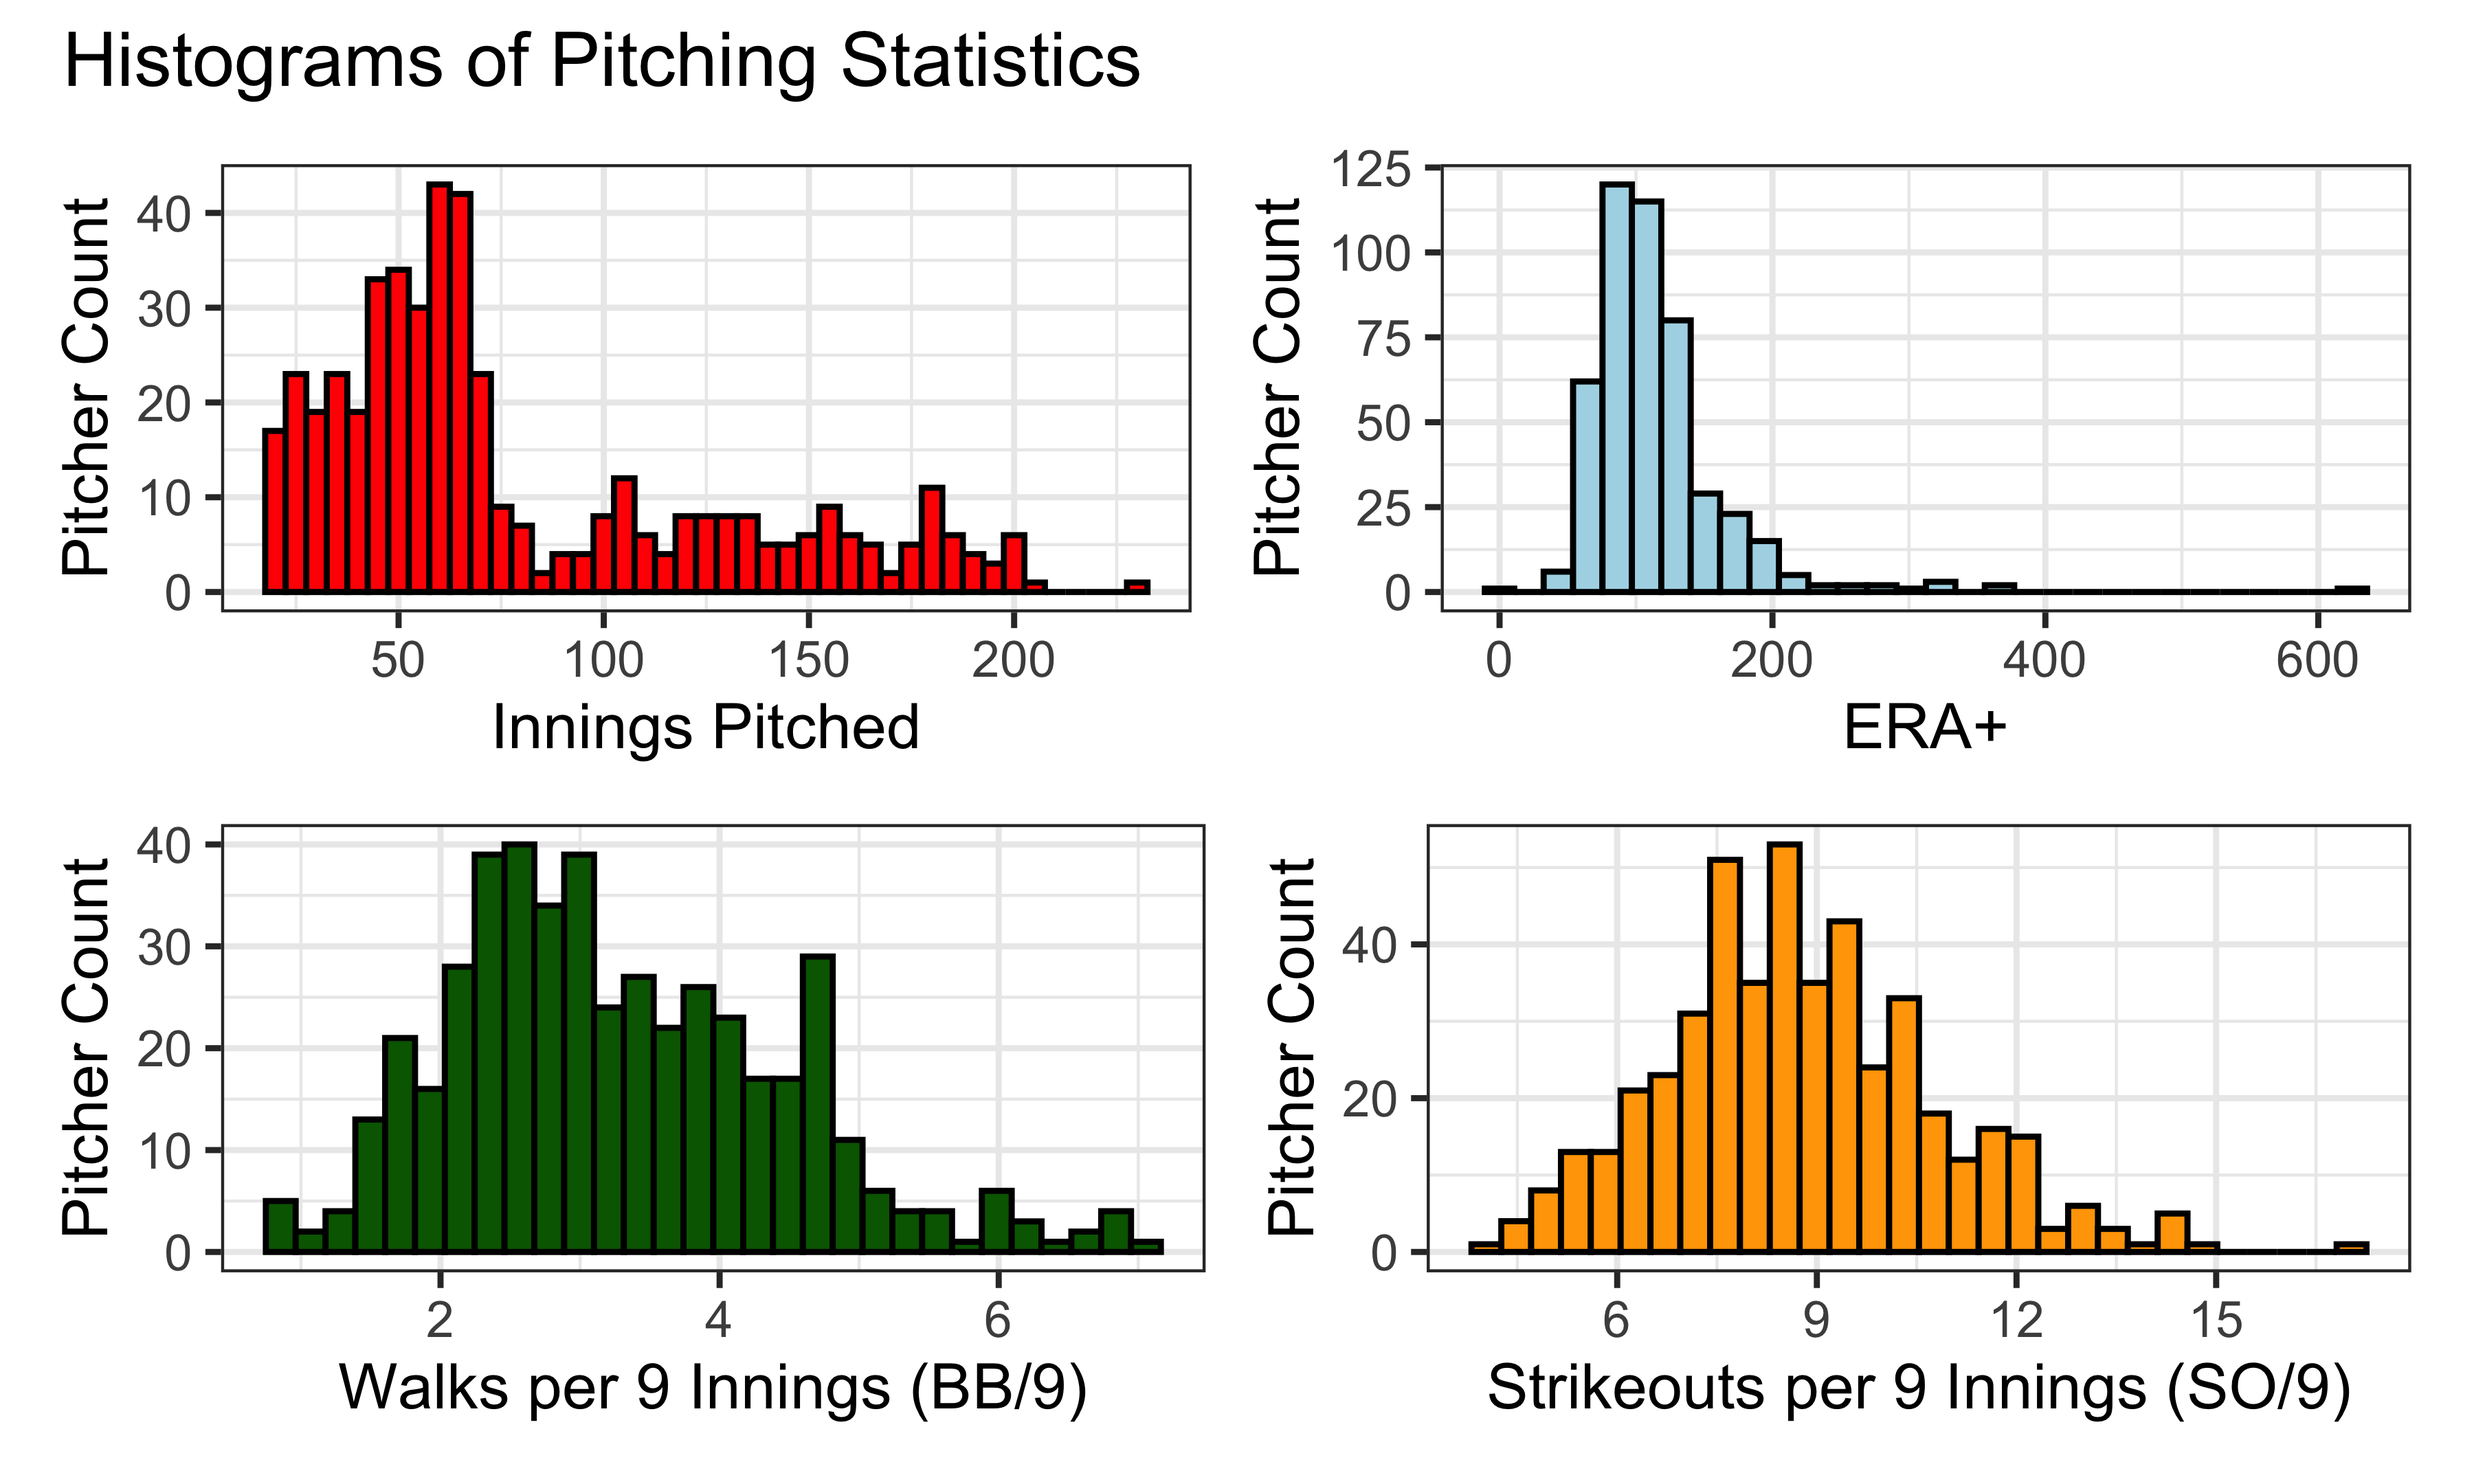
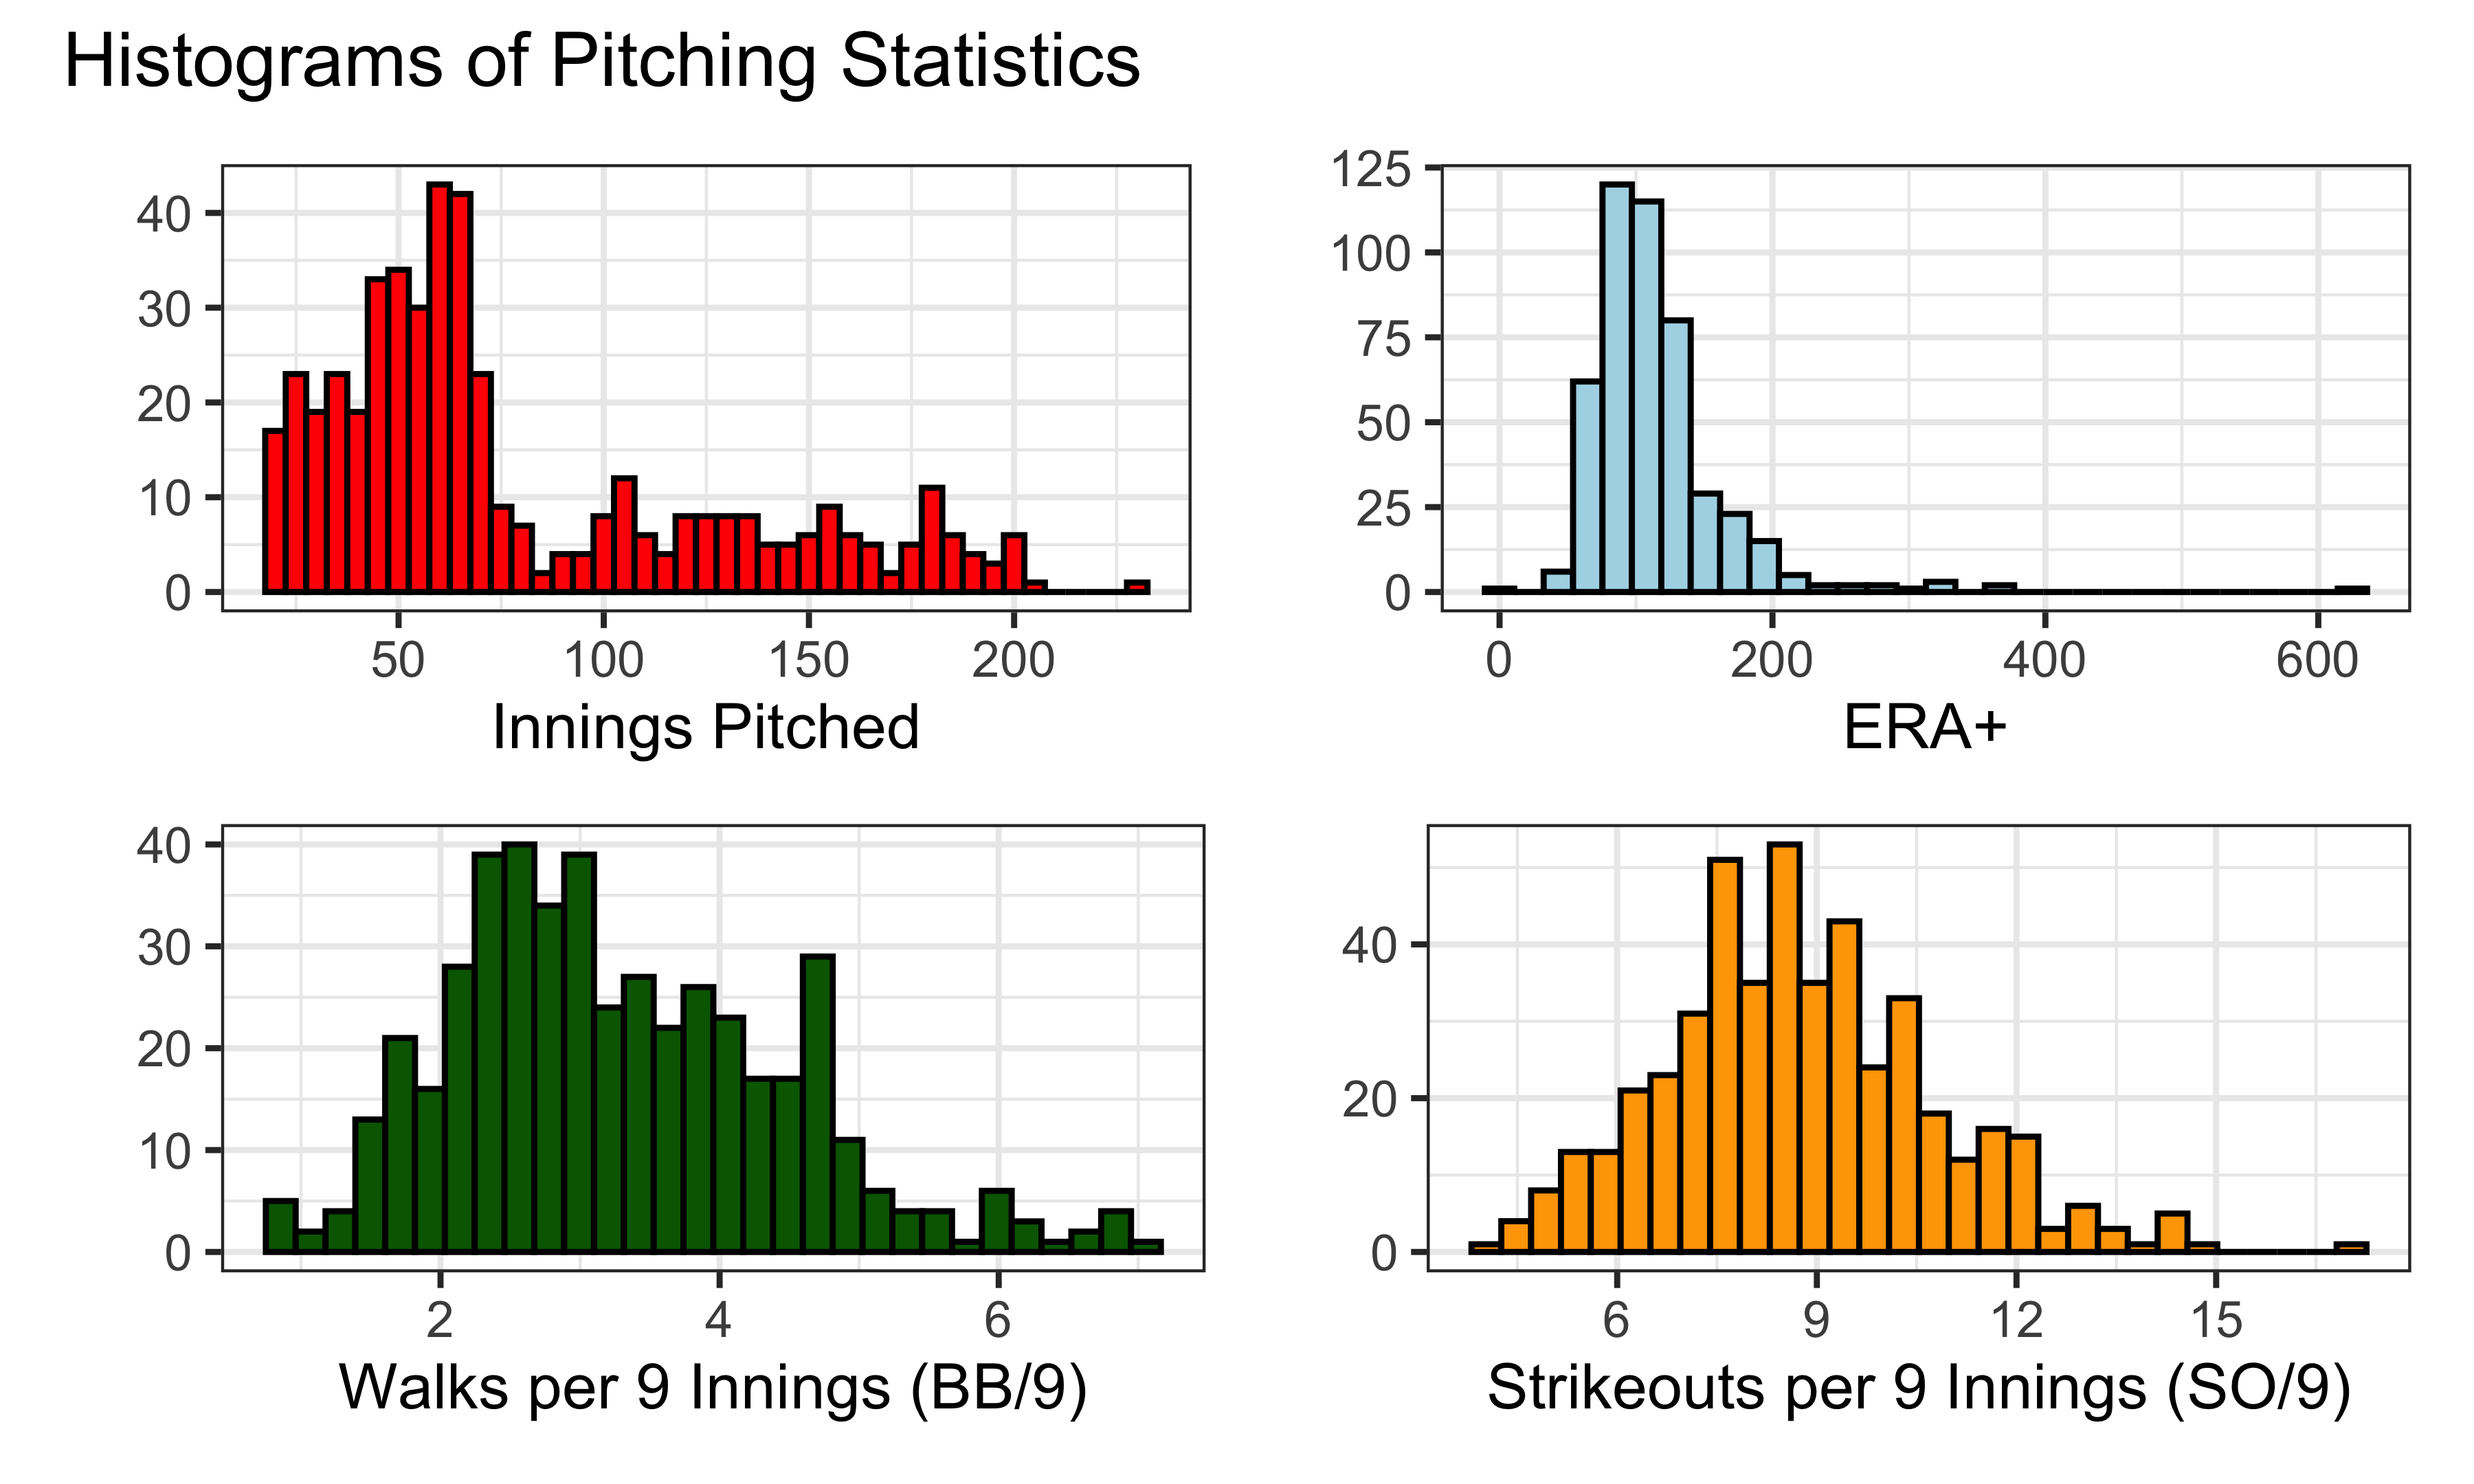
Changes for aesthetic.

diff --git a/Final_Report_Draft.html b/Final_Report_Draft.html
@@ -612,20 +612,7 @@ salaries |&gt;
                     &quot;rhp&quot; = &quot;Right Hand Pitcher&quot;,
                     &quot;dh&quot; = &quot;Designated Hitter&quot;,
                     &quot;ss&quot; = &quot;Shortstop&quot;)) +
-  scale_fill_discrete(name = &quot;Position&quot;,
-                      labels = c(&quot;1b&quot; = &quot;1st Base&quot;,
-                    &quot;2b&quot; = &quot;2nd Base&quot;,
-                    &quot;3b&quot; = &quot;3rd Base&quot;,
-                    &quot;inf&quot; = &quot;Infield&quot;,
-                    &quot;c&quot; = &quot;Catcher&quot;,
-                    &quot;rf&quot; = &quot;Right Field&quot;,
-                    &quot;lf&quot; = &quot;Left Field&quot;,
-                    &quot;cf&quot; = &quot;Center Field&quot;,
-                    &quot;of&quot; = &quot;Outfield&quot;,
-                    &quot;lhp&quot; = &quot;Left Hand Pitcher&quot;,
-                    &quot;rhp&quot; = &quot;Right Hand Pitcher&quot;,
-                    &quot;dh&quot; = &quot;Designated Hitter&quot;,
-                    &quot;ss&quot; = &quot;Shortstop&quot;)) +
+  guides(fill=&quot;none&quot;) +
   theme_bw()</code></pre>
 <p><img src="Final_Report_Draft_files/figure-html/unnamed-chunk-7-1.png" width="90%" /></p>
 </div>
@@ -720,7 +707,7 @@ scatter_patch + plot_annotation(title = &quot;Scatterplot of Batting Statistics 
   geom_histogram(binwidth = 5, fill = &quot;red&quot;, col = &quot;black&quot;) +
   labs(
        x = &quot;Innings Pitched&quot;,
-       y = &quot;Pitcher Count&quot;) +
+       y = &quot;&quot;) +
   theme_bw()
 
 era_plot = merged_pitching |&gt;
@@ -728,7 +715,7 @@ era_plot = merged_pitching |&gt;
   geom_histogram(fill = &quot;lightblue&quot;, col = &quot;black&quot;) +
     labs(
        x = &quot;ERA+&quot;,
-       y = &quot;Pitcher Count&quot;) +
+       y = &quot;&quot;) +
   theme_bw()
 
 bb_plot = merged_pitching |&gt;
@@ -736,7 +723,7 @@ bb_plot = merged_pitching |&gt;
   geom_histogram(fill = &quot;darkgreen&quot;, col = &quot;black&quot;) +
     labs(
        x = &quot;Walks per 9 Innings (BB/9)&quot;,
-       y = &quot;Pitcher Count&quot;) +
+       y = &quot;&quot;) +
   theme_bw()
 
 so_plot = merged_pitching |&gt;
@@ -744,7 +731,8 @@ so_plot = merged_pitching |&gt;
   geom_histogram(fill = &quot;orange&quot;, col = &quot;black&quot;) +
     labs(
        x = &quot;Strikeouts per 9 Innings (SO/9)&quot;,
-       y = &quot;Pitcher Count&quot;) +
+       y = &quot;&quot;) +
+  guides() +
   theme_bw()
 
 hist_pitch = (ip_plot + era_plot) / (bb_plot + so_plot)
@@ -761,7 +749,7 @@ are mostly symmetric, with peaks around 3 and 9, respectively.</p>
   scale_x_continuous(lim = c(0, 250)) +
   scale_y_continuous(labels = label_comma()) +
   labs(x = &quot;Innings Pitched&quot;,
-       y = &quot;2022 Salary&quot;) +
+       y = &quot;&quot;) +
   theme_bw()
 
 era_sal = merged_pitching |&gt; 
@@ -770,7 +758,8 @@ era_sal = merged_pitching |&gt;
   scale_x_continuous(lim = c(0, 400)) + 
   scale_y_continuous(labels = label_comma()) +
   labs(x = &quot;ERA+&quot;,
-       y = &quot;2022 Salary&quot;) +
+       y = &quot;&quot;) +
+    guides(y=&quot;none&quot;) +
   theme_bw()
 
 bb_sal = merged_pitching |&gt; 
@@ -779,7 +768,7 @@ bb_sal = merged_pitching |&gt;
   scale_x_continuous(lim = c(0, 10)) + 
   scale_y_continuous(labels = label_comma()) +
    labs(x = &quot;Walks per 9 Innings (BB/9)&quot;,
-       y = &quot;2022 Salary&quot;) +
+       y = &quot;&quot;) +
   theme_bw()
 
 so_sal = merged_pitching |&gt; 
@@ -788,11 +777,12 @@ so_sal = merged_pitching |&gt;
   scale_x_continuous(lim = c(0, 20)) + 
   scale_y_continuous(labels = label_comma()) +
    labs(x = &quot;Strikeouts Per 9 Innings (SO/9)&quot;,
-       y = &quot;2022 Salary&quot;) +
+       y = &quot;&quot;) +
+    guides(y=&quot;none&quot;) +
   theme_bw()
 
 scatt_pitch = (ip_sal + era_sal) / (bb_sal + so_sal)
-scatt_pitch + plot_annotation(title = &quot;Scatterplots of Pitching Statistics vs. Salary&quot;)</code></pre>
+scatt_pitch + plot_annotation(title = &quot;Scatterplots of Pitching Statistics and Salary&quot;)</code></pre>
 <p><img src="Final_Report_Draft_files/figure-html/unnamed-chunk-13-1.png" width="90%" /></p>
 <p>Interestingly, the pitchers with the highest ERA+ often had
 considerably lower salaries.</p>
